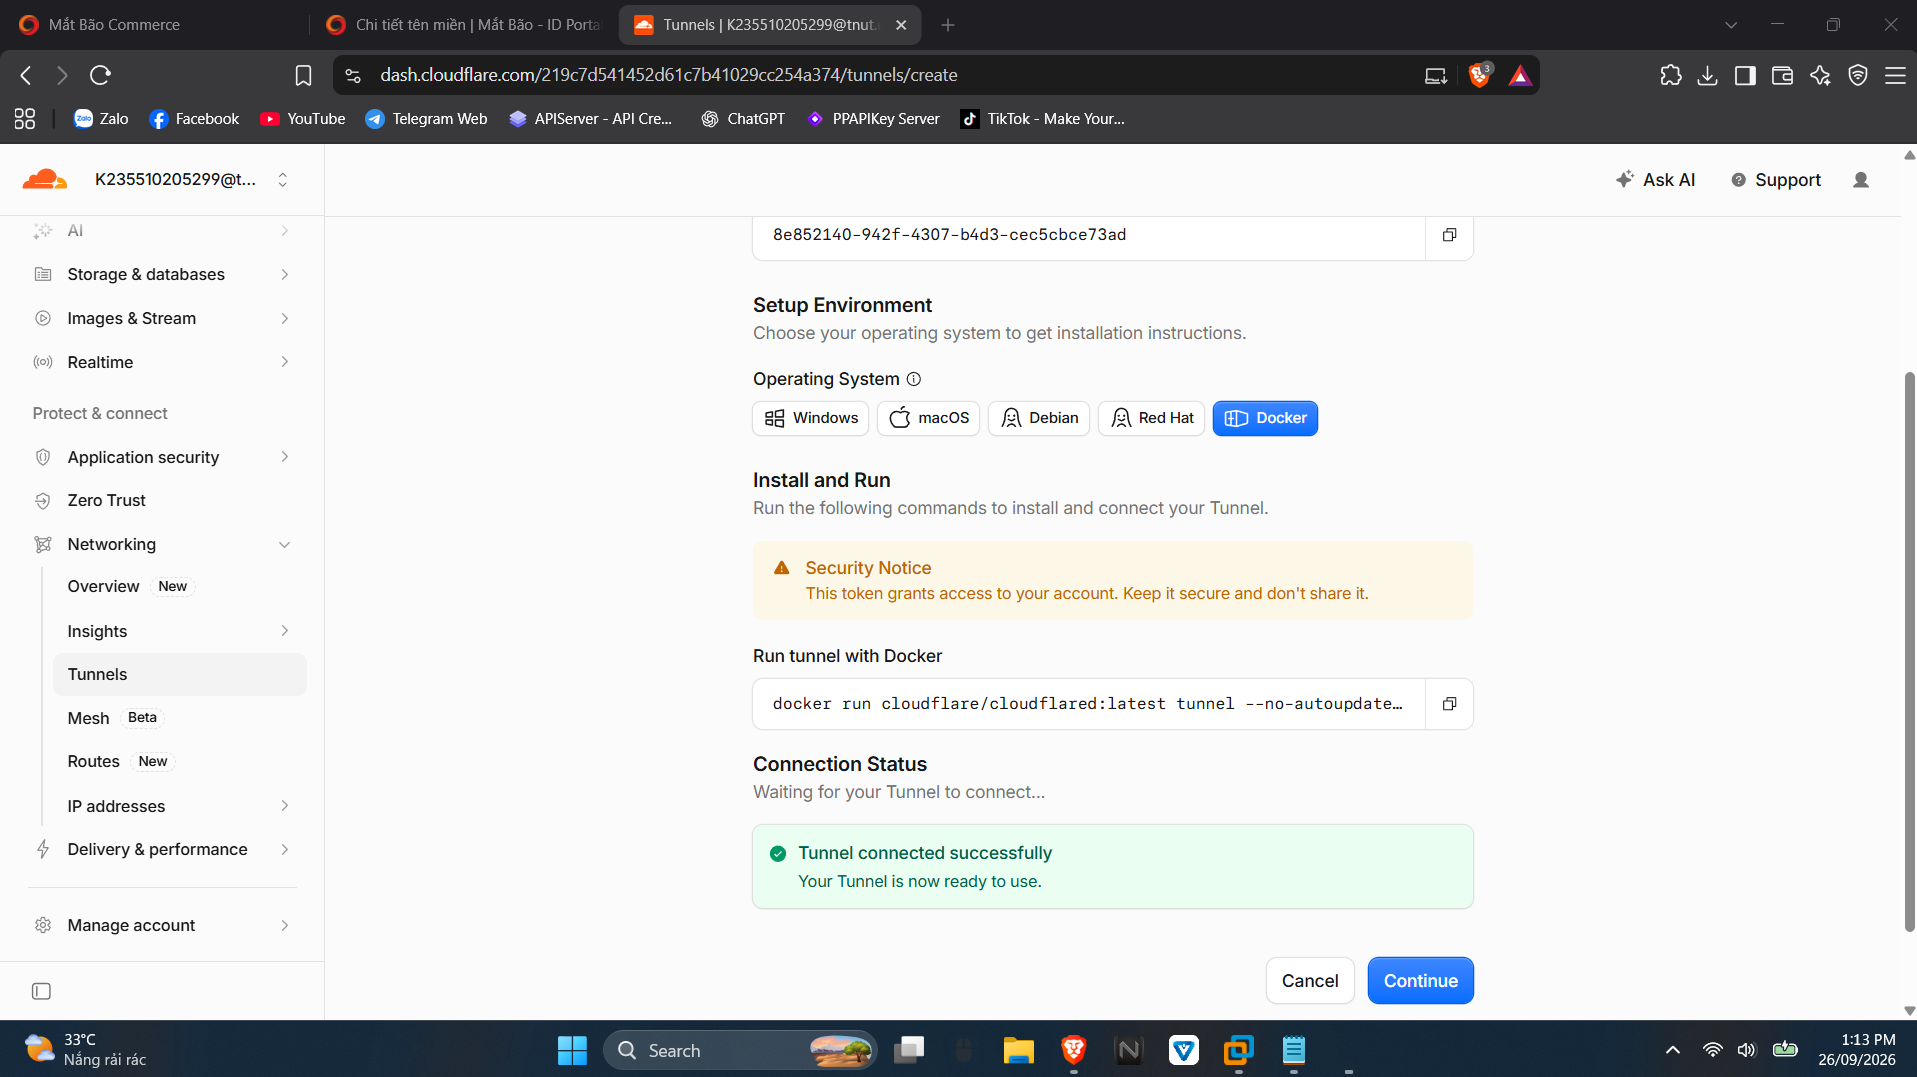
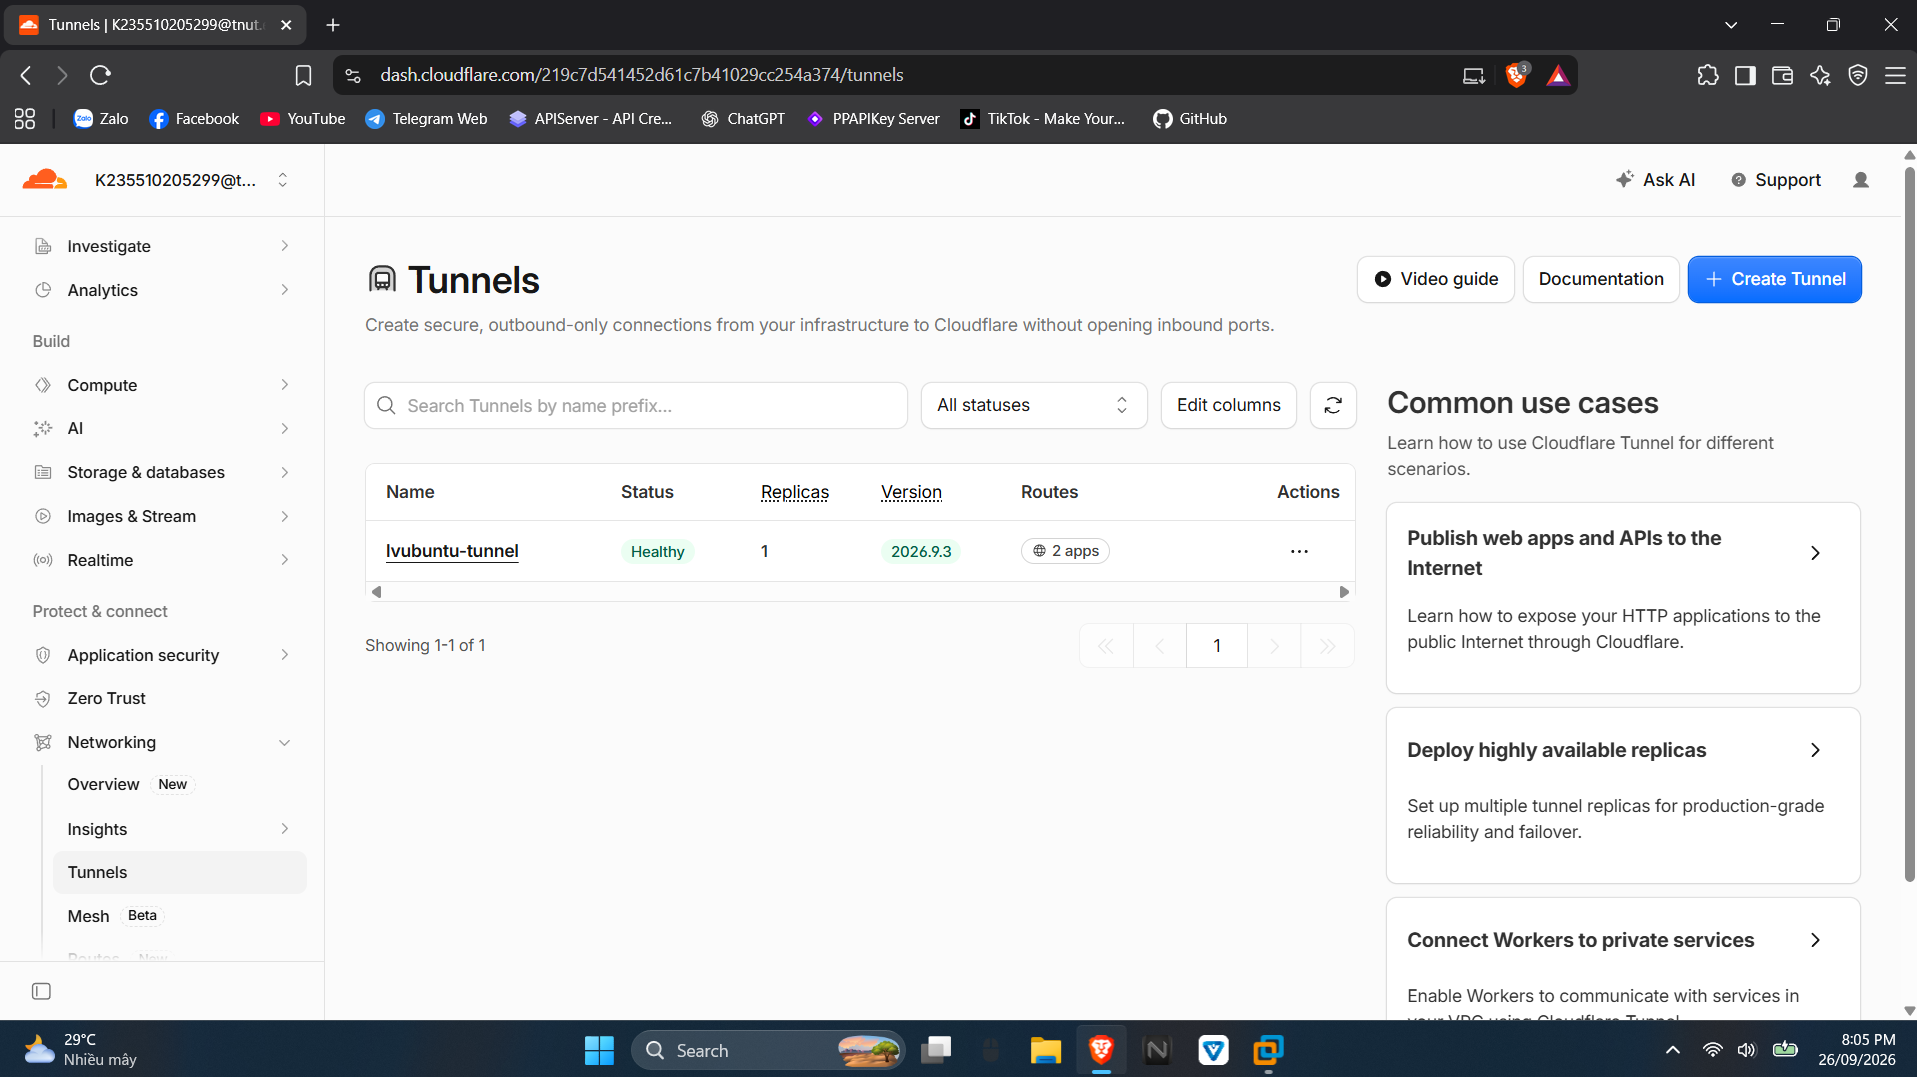
Sua anh tunnel healthy

diff --git a/website2/index.html b/website2/index.html
@@ -1,11 +1,214 @@
 <!DOCTYPE html>
 <html lang="vi">
 <head>
-    <meta charset="UTF-8">
-    <title>Website 2</title>
+<meta charset="UTF-8">
+<title>Con meo ngu ngoc</title>
+
+<style>
+    * {
+        box-sizing: border-box;
+    }
+
+    body {
+        margin: 0;
+        min-height: 100vh;
+        background: #050805;
+        color: #00ff66;
+        font-family: "Courier New", monospace;
+        overflow: hidden;
+        display: flex;
+        justify-content: center;
+        align-items: center;
+    }
+
+    #rain {
+        position: fixed;
+        inset: 0;
+        opacity: 0.15;
+        pointer-events: none;
+        white-space: pre;
+        font-size: 14px;
+        line-height: 14px;
+        overflow: hidden;
+    }
+
+    .box {
+        position: relative;
+        text-align: center;
+        z-index: 2;
+    }
+
+    h1 {
+        font-size: 18px;
+        letter-spacing: 5px;
+        margin-bottom: 35px;
+        text-shadow: 0 0 12px #00ff66;
+    }
+
+    #cat {
+        font-size: 22px;
+        line-height: 1.05;
+        white-space: pre;
+        cursor: pointer;
+        user-select: none;
+        text-shadow:
+            0 0 5px #00ff66,
+            0 0 15px #00ff66;
+        transition: transform 0.15s;
+    }
+
+    #cat:hover {
+        transform: scale(1.03);
+    }
+
+    #cat.pet {
+        transform: scale(0.97) translateY(4px);
+    }
+
+    #message {
+        height: 30px;
+        margin-top: 25px;
+        font-size: 15px;
+        opacity: 0.8;
+    }
+
+    .heart {
+        position: fixed;
+        font-size: 22px;
+        pointer-events: none;
+        animation: fly 1.2s forwards;
+        text-shadow: 0 0 10px #00ff66;
+    }
+
+    @keyframes fly {
+        from {
+            transform: translateY(0) scale(0.7);
+            opacity: 1;
+        }
+
+        to {
+            transform: translateY(-100px) scale(1.4);
+            opacity: 0;
+        }
+    }
+</style>
 </head>
+
 <body>
-    <h1>Website 2</h1>
-    <p>Đây là website thứ hai chạy trên Nginx.</p>
+
+<div id="rain"></div>
+
+<div class="box">
+    <h1>01000010 01001001 01001110 01000001 01010010 01011001</h1>
+
+    <div id="cat">        01       10
+       0101     1010
+      01010111110101
+     0101010101010101
+    0101  01  10  1010
+    0101    00    1010
+    0101  101010  1010
+     01010101010101
+       0101010101
+      010101010101
+    0101010101010101
+   010101010101010101
+   010101010101010101
+    0101010101010101
+      010101010101
+        01010101</div>
+
+    <div id="message">click the cat to pet it_</div>
+</div>
+
+<script>
+const cat = document.getElementById("cat");
+const message = document.getElementById("message");
+const rain = document.getElementById("rain");
+
+const normalCat = cat.textContent;
+
+const happyCat = `        01       10
+       0101     1010
+      01010111110101
+     0101010101010101
+    0101  00  00  1010
+    0101    00    1010
+    0101  100001  1010
+     01010101010101
+       0101010101
+      010101010101
+    0101010101010101
+   010101010101010101
+   010101010101010101
+    0101010101010101
+      010101010101
+        01010101`;
+
+let pets = 0;
+
+cat.addEventListener("click", (e) => {
+    pets++;
+
+    cat.textContent = happyCat;
+    cat.classList.add("pet");
+
+    const messages = [
+        "0101... prrrrrr...",
+        "cat.exe is happy",
+        "more pets detected...",
+        "happiness = 100%",
+        "010101 PURR 010101"
+    ];
+
+    message.textContent =
+        messages[Math.min(pets - 1, messages.length - 1)];
+
+    createHeart(e.clientX, e.clientY);
+
+    setTimeout(() => {
+        cat.textContent = normalCat;
+        cat.classList.remove("pet");
+    }, 450);
+});
+
+function createHeart(x, y) {
+    const heart = document.createElement("div");
+    heart.className = "heart";
+    heart.textContent = Math.random() > 0.5 ? "01" : "10";
+
+    heart.style.left = (x + Math.random() * 50 - 25) + "px";
+    heart.style.top = y + "px";
+
+    document.body.appendChild(heart);
+
+    setTimeout(() => heart.remove(), 1200);
+}
+
+/* Mưa số 0 và 1 phía sau */
+function makeRain() {
+    let text = "";
+
+    for (let i = 0; i < 2500; i++) {
+        text += Math.random() > 0.5 ? "1" : "0";
+
+        if (i % 90 === 0) {
+            text += "\n";
+        } else {
+            text += " ";
+        }
+    }
+
+    rain.textContent = text;
+}
+
+makeRain();
+
+setInterval(() => {
+    rain.style.transform =
+        `translateY(${Math.random() * 20 - 10}px)`;
+}, 500);
+</script>
+
 </body>
 </html>
